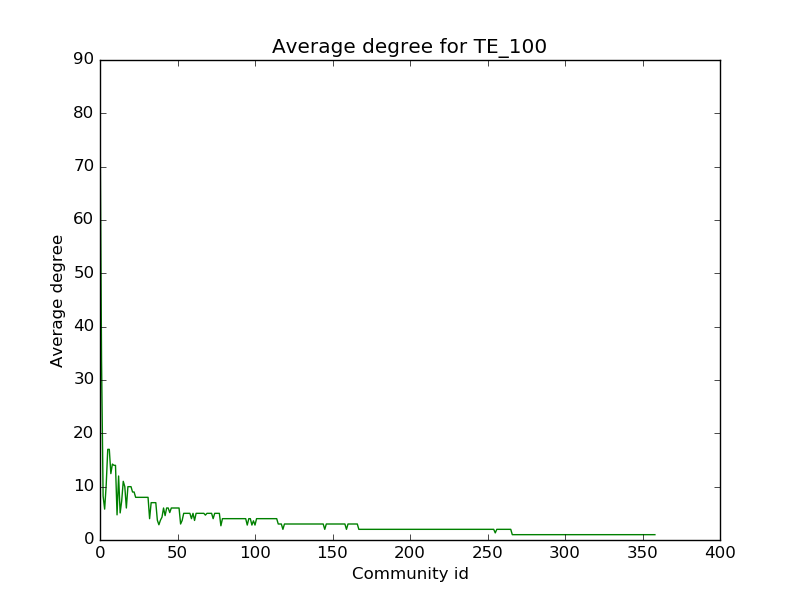
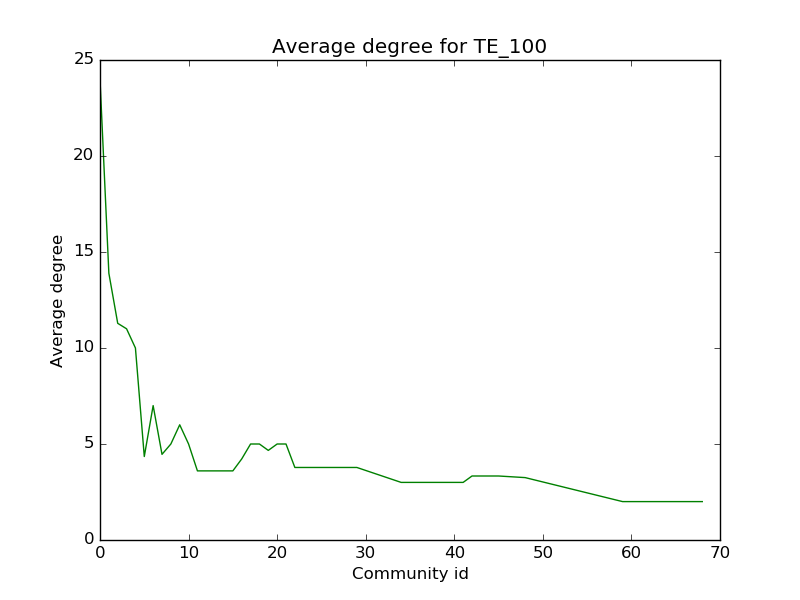
Fixed all bugs

diff --git a/expandCommunities.py b/expandCommunities.py
@@ -7,6 +7,8 @@ import collections
 import matplotlib.pyplot as plt
 import multiprocessing as mp
 from evaluation import ArxivAuthorsEvaluation
+import copy
+from random import randint
 
 class ArxivAuthorsCommunityExpansion():
 
@@ -17,10 +19,12 @@ class ArxivAuthorsCommunityExpansion():
 		self.g = None
 		self.partition = collections.defaultdict(list)
 
+
 	def computeClusteringEdges(self, mpInput):
 
 		authorsInSameCluster = mpInput[0]
 		helperG = mpInput[1]
+		clusterId = mpInput[2]
 		
 		clusteringEdges = []
 		clusteringWeights = []
@@ -28,11 +32,11 @@ class ArxivAuthorsCommunityExpansion():
 		edges = [edge.tuple for edge in helperG.es]
 
 		partitions2nodes = collections.defaultdict(list)
+		nodeIds2clusters = {}
 
 		for node in helperG.vs:
 			partitions2nodes[node['partitionId']].append(node.index)
-
-		oldModularity = helperG.modularity(helperG.vs['partitionId'], weights = helperG.es['weight'])
+			nodeIds2clusters[node.index] = node['clusterId']
 
 		# intra partitions augumented edges
 		'''
@@ -40,57 +44,88 @@ class ArxivAuthorsCommunityExpansion():
 		which belong to the same cluster (determined by clustering the articles using the Spherical K-Means algorithm)
 		'''
 		for partitionId in partitions2nodes:
+			
 			nodesSameClusterPerPartition = list(set([author['nodeId'] for author in authorsInSameCluster]) & set(partitions2nodes[partitionId]))
 
 			if (len(nodesSameClusterPerPartition) > 1):
 				for pair in combinations(nodesSameClusterPerPartition, 2):
 					if ((pair[0], pair[1]) not in edges and (pair[1], pair[0]) not in edges):
-						helperG.add_edge(helperG.vs[pair[0]], helperG.vs[pair[1]], weight = 1)
 						clusteringEdges.append((helperG.vs[pair[0]]['name'], helperG.vs[pair[1]]['name']))
-			
-			newModularity = helperG.modularity(helperG.vs['partitionId'], weights = helperG.es['weight'])
+
+		helperG.add_edges(clusteringEdges)
+		helperG.es[len(edges):]['weight'] = [1] * len(clusteringEdges)
 
 		edges = [edge.tuple for edge in helperG.es]
 
+		# sort the partition dictionary ascending by size
+		partitions2nodes = {k: v for k, v in sorted(partitions2nodes.items(), key = lambda item: len(item[1]))}
+		partitions2nodes = {k: v for k, v in sorted(partitions2nodes.items(), key = lambda item: item[0])}
+
+		updatedPartitions = {}
+
+		# filter partitions
+		# only partitions which contain all nodes from this cluster
+
+		legitPartitions = {}
+
+		for partitionId in partitions2nodes:
+			nodesSameClusterInPartition = list(set([author['nodeId'] for author in authorsInSameCluster]) & set(partitions2nodes[partitionId]))
+			if (len(nodesSameClusterInPartition) != len(partitions2nodes[partitionId])):
+				continue
+			legitPartitions[partitionId] = partitions2nodes[partitionId]
+
+		oldModularity = helperG.modularity(helperG.vs['partitionId'], weights = helperG.es['weight'])
+		
 		# inter partitions
 		'''
 		We augument the inter partition edges by uniting the nodes FROM DIFFERENT PARTITIONS
 		which belong to the same cluster (determined by clustering the articles using the Spherical K-Means algorithm)
 		We only keep the partition unions which maximize the modularity
 		'''
-		for partitionId1 in partitions2nodes:
-			
-			nodesSameClusterInPartition1 = list(set([author['nodeId'] for author in authorsInSameCluster]) & set(partitions2nodes[partitionId1]))
+		for partitionId1 in list(legitPartitions):
 
-			for partitionId2 in partitions2nodes:
+			if (partitionId1 not in legitPartitions):
+				continue
+
+
+			for partitionId2 in list(legitPartitions):
 				
-				if (partitionId1 < partitionId2):
+				if (partitionId1 < partitionId2 and partitionId2 in legitPartitions):
 
-					nodesSameClusterInPartition2 = list(set([author['nodeId'] for author in authorsInSameCluster]) & set(partitions2nodes[partitionId2]))
-					nodesToCombine = nodesSameClusterInPartition1 + nodesSameClusterInPartition2
-					
+					# merge partitions
+					for nodeId in legitPartitions[partitionId2]:
+						helperG.vs[nodeId]['partitionId'] = partitionId1
+						updatedPartitions[nodeId] = partitionId1
+
+					nodeId1 = legitPartitions[partitionId1][randint(0, len(legitPartitions[partitionId1]) - 1)]
+					nodeId2 = legitPartitions[partitionId2][randint(0, len(legitPartitions[partitionId2]) - 1)]
+
 					candidateEdges = [] # the edges resulting by uniting nodes in the same cluster, from different partitions
 					# not all candidate edges make it into the final configuration
-
-					for pair in combinations(nodesToCombine, 2):
-						if ((pair[0], pair[1]) not in edges and (pair[1], pair[0])):
-							helperG.add_edge(helperG.vs[pair[0]]['name'], helperG.vs[pair[1]]['name'], weight = 1)
-							candidateEdges.append((helperG.vs[pair[0]]['name'], helperG.vs[pair[1]]['name']))
+					
+					candidateEdges.append((helperG.vs[nodeId1]['name'], helperG.vs[nodeId2]['name']))
+					helperG.add_edge(helperG.vs[nodeId1]['name'], helperG.vs[nodeId2]['name'], weight = 1)
 
 					newModularity = helperG.modularity(helperG.vs['partitionId'], weights = helperG.es['weight'])
 
-					# if new configuration maximizes modularity, keep it
 					if (newModularity > oldModularity):
-						print('newModularity = ' + str(newModularity))
+						legitPartitions[partitionId1] += legitPartitions[partitionId2]
+						del legitPartitions[partitionId2]
 						oldModularity = newModularity
 						clusteringEdges += candidateEdges
 					else:
-						# if new configuration does not bring any benefit, drop it
 						helperG.delete_edges(candidateEdges)
+						# UNmerge partitions
+						for nodeId in legitPartitions[partitionId2]:
+							helperG.vs[nodeId]['partitionId'] = partitionId2
+							del updatedPartitions[nodeId]
+
+
+		# print('CLUSTER ID ', clusterId, updatedPartitions)
 
 		clusteringWeights = [1] * (len(clusteringEdges) - 1) 
 
-		return (clusteringEdges, clusteringWeights)
+		return (clusteringEdges, clusteringWeights, updatedPartitions)
 
 	def buildGraph(self):
 
@@ -103,7 +138,7 @@ class ArxivAuthorsCommunityExpansion():
 		db = client[self.dbName]
 		documents = db[self.dataset]
 
-		cursor = documents.find({},{'authors': 1, 'clusterId': 1})
+		cursor = documents.find({},{'authors': 1, 'clusterId': 1}).limit(100)
 
 		vertices = []
 		edges = []
@@ -115,9 +150,9 @@ class ArxivAuthorsCommunityExpansion():
 
 		for c in cursor:
 			for author in c['authors']:
-				vertices.append(author)
+				if (author not in vertices):
+					vertices.append(author)
 				clusterIds.append(c['clusterId'])
-				clusterIds2nodeIds[c['clusterId']].append({'author': author, 'nodeId': nodeIdx})
 				nodeIdx += 1
 
 			for pair in combinations(c['authors'], 2):
@@ -132,6 +167,9 @@ class ArxivAuthorsCommunityExpansion():
 		helperG.add_edges(edges)
 		helperG.es['weight'] = weights
 		helperG.vs['clusterId'] = clusterIds
+
+		for node in helperG.vs:
+			clusterIds2nodeIds[node['clusterId']].append({'author': node['name'], 'nodeId': node.index})
 
 		helperPartition = louvain.find_partition(helperG, louvain.ModularityVertexPartition)
 
@@ -151,13 +189,16 @@ class ArxivAuthorsCommunityExpansion():
 		# for each cluster in paralel
 		pool = mp.Pool(mp.cpu_count())
 
-		mpInput = [(clusterIds2nodeIds[clusterId], helperG) for clusterId in list(clusterIds2nodeIds.keys())]
+		mpInput = [(clusterIds2nodeIds[clusterId], helperG, clusterId) for clusterId in list(clusterIds2nodeIds.keys())]
 
 		results = pool.map(self.computeClusteringEdges, mpInput)
+
+		updatedPartitions = {}
 
 		for result in results:
 			edges += result[0]
 			weights += result[1]
+			updatedPartitions.update(result[2])
 
 		print('Edges after augumentation ' + str(len(edges)))
 			
@@ -165,10 +206,16 @@ class ArxivAuthorsCommunityExpansion():
 		self.g.add_edges(edges)
 		self.g.es['weight'] = weights
 
-		for nodeId in [node.index for node in helperG.vs]:
-			self.g.vs[nodeId]['partitionId'] = helperG.vs[nodeId]['partitionId']
+		for finalNode in self.g.vs:
+			self.g.vs[finalNode.index]['partitionId'] = updatedPartitions[finalNode.index] \
+															if finalNode.index in updatedPartitions \
+															else helperG.vs[finalNode.index]['partitionId']
 
 		self.partition = VertexClustering(self.g, self.g.vs['partitionId'])
+
+		plot(self.g)
+
+		plot(self.partition)
 
 	def evaluateGraph(self):
 

diff --git a/louvainSimple.py b/louvainSimple.py
@@ -31,7 +31,8 @@ class ArxivAuthorsLouvain():
 		weights = []
 		for c in cursor:
 			for author in c["authors"]:
-				vertices.append(author)
+				if (author not in vertices):
+					vertices.append(author)
 
 			for pair in combinations(c["authors"], 2):
 				ind = edges.index(pair) if pair in edges else -1
